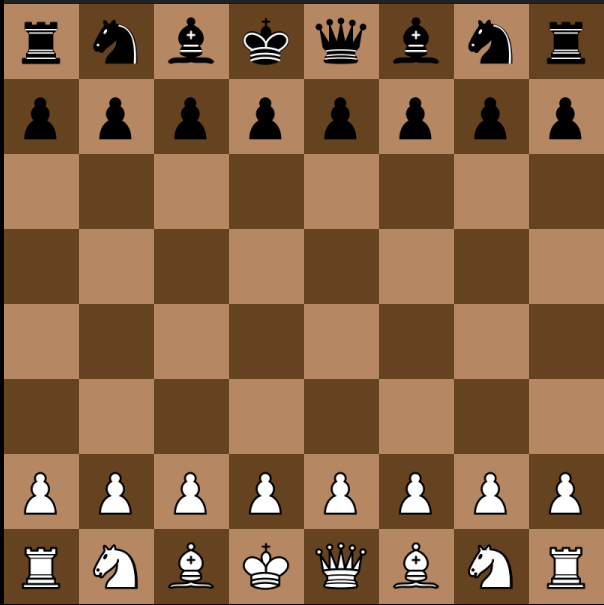
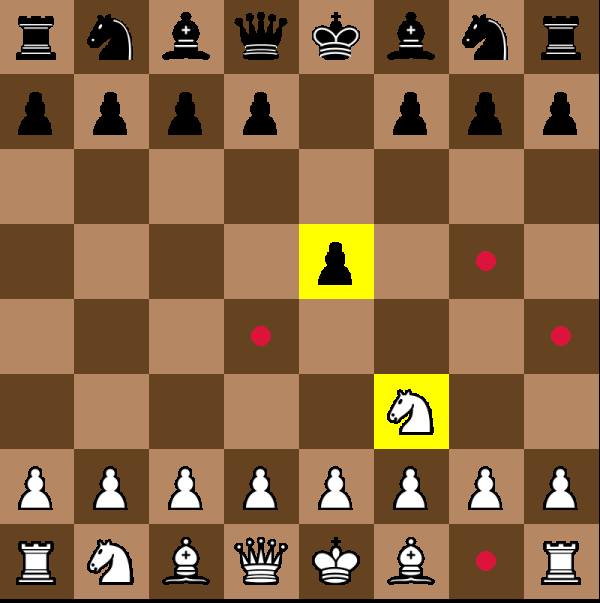
gui update

Changed region(s): [[0.0, 0.0, 1.0, 1.0], [0.78, 0.4179, 0.84, 0.4478]]

diff --git a/gui.py b/gui.py
@@ -1,106 +1,179 @@
-
+#! /usr/bin/env python3
 from chess import Chess, Color
 import pygame
+from enum import Enum
 from pygame.locals import MOUSEBUTTONUP
 import sys
 
-pygame.init()
+class AllPieces(Enum):
+    empty = 0
+    bP = 1 
+    bR = 2 
+    bN = 3 
+    bB = 4 
+    bQ = 5 
+    bK = 6 
+    wP = 7 
+    wR = 8 
+    wN = 9 
+    wB = 10 
+    wQ = 11 
+    wK = 12
 
-WIDTH, HEIGHT = 600, 600
-SQ_SIZE = WIDTH // 8
-LIGHT_BROWN = (181, 136, 99)
-DARK_BROWN = (101, 67, 33)
+class ChessGui:
 
-screen = pygame.display.set_mode((WIDTH, HEIGHT))
-pygame.display.set_caption("Chess")
+    pygame.init()
 
-chess_game = Chess()
-chess_game.board_init()
-chess_game.bit_board_init()
+    WIDTH, HEIGHT = 600, 600
+    SQ_SIZE = WIDTH // 8
+    LIGHT_BROWN = (181, 136, 99)
+    DARK_BROWN = (101, 67, 33)
+    HIGHLIGHT_COLOR = (255, 255, 0)
 
-board = [
-    ['bR', 'bN', 'bB', 'bK', 'bQ', 'bB', 'bN', 'bR'],
-    ['bP', 'bP', 'bP', 'bP', 'bP', 'bP', 'bP', 'bP'],
-    ['--', '--', '--', '--', '--', '--', '--', '--'],
-    ['--', '--', '--', '--', '--', '--', '--', '--'],
-    ['--', '--', '--', '--', '--', '--', '--', '--'],
-    ['--', '--', '--', '--', '--', '--', '--', '--'],
-    ['wP', 'wP', 'wP', 'wP', 'wP', 'wP', 'wP', 'wP'],
-    ['wR', 'wN', 'wB', 'wK', 'wQ', 'wB', 'wN', 'wR']
-]
+    screen = pygame.display.set_mode((WIDTH, HEIGHT))
+    pygame.display.set_caption("Chess")
 
-def draw_board():
-    for row in range(8):
-        for col in range(8):
-            color = LIGHT_BROWN if (row + col) % 2 == 0 else DARK_BROWN
-            pygame.draw.rect(screen, color, pygame.Rect(col * SQ_SIZE, row * SQ_SIZE, SQ_SIZE, SQ_SIZE))
+    chess_game = Chess()
+    chess_game.board_init()
+    chess_game.bit_board_init()
 
-def update_board(x_src, y_src, x_dst, y_dst, piece, color):
-    moves = chess_game.gen_moves(color)
-    for move in moves:
-        if move.piece == 0:
-            break
-        if move.src == 63 - (x_src * 8 + y_src) and move.dst == 63 - (x_dst * 8 + y_dst):
-            board[x_src][y_src], board[x_dst][y_dst] = '--', piece
-            chess_game.do_move(move)
-            return True
-    return False
+    board = [[AllPieces.empty.value for _ in range(8)] for _ in range(8)]
 
-def load_pieces():
-    return {piece: pygame.image.load(f'img/{piece}.png') for piece in ['bP', 'bR', 'bN', 'bB', 'bQ', 'bK', 'wP', 'wR', 'wN', 'wB', 'wQ', 'wK']}
+    pieces = {}
+    sounds = {}
 
-def draw_pieces(board, pieces):
-    for row in range(8):
-        for col in range(8):
-            piece = board[row][col]
-            if piece != '--':
-                p_img = pieces[piece].convert_alpha()
-                p_img_rect = p_img.get_rect()
-                p_img_rect.centerx, p_img_rect.centery = col * SQ_SIZE + SQ_SIZE // 2, row * SQ_SIZE + SQ_SIZE // 2
-                screen.blit(p_img, p_img_rect)
+    @staticmethod
+    def preload_assets():
+        ChessGui.pieces = {num: pygame.image.load(f'img/{piece}.png') for num, piece in enumerate(
+            ['bP', 'bR', 'bN', 'bB', 'bQ', 'bK', 'wP', 'wR', 'wN', 'wB', 'wQ', 'wK'], start=1)}
+        ChessGui.sounds['move'] = pygame.mixer.Sound('sound/assets_sounds_move.wav')
+        ChessGui.sounds['capture'] = pygame.mixer.Sound('sound/assets_sounds_capture.wav')
 
-def switch_player(color):
-    return Color.BLACK.value if color == Color.WHITE.value else Color.WHITE.value
+    @staticmethod
+    def draw_board():
+        for row in range(8):
+            for col in range(8):
+                color = ChessGui.LIGHT_BROWN if (row + col) % 2 == 0 else ChessGui.DARK_BROWN
+                pygame.draw.rect(ChessGui.screen, color, pygame.Rect(col * ChessGui.SQ_SIZE, row * ChessGui.SQ_SIZE, ChessGui.SQ_SIZE, ChessGui.SQ_SIZE))
 
-def play_sound(is_capture):
-    sound_file = 'sound/assets_sounds_capture.wav' if is_capture else 'sound/assets_sounds_move.wav'
-    sound = pygame.mixer.Sound(sound_file)
-    pygame.mixer.Sound.play(sound)
+    @staticmethod
+    def update_board(x_src, y_src, x_dst, y_dst, piece, color):
+        moves = ChessGui.chess_game.gen_moves(color)
+        for move in moves:
+            if move.piece == 0:
+                break
+            if move.src == 63 - (x_src * 8 + y_src) and move.dst == 63 - (x_dst * 8 + y_dst):
+                ChessGui.board[x_src][y_src], ChessGui.board[x_dst][y_dst] = AllPieces.empty.value, piece
+                ChessGui.chess_game.do_move(move)
+                return True
+        return False
 
-def main():
-    pieces = load_pieces()
-    running = True
-    player = Color.WHITE.value
-    src = False
-    x_src, y_src = None, None
+    @staticmethod
+    def draw_pieces(board):
+        for row in range(8):
+            for col in range(8):
+                piece = board[row][col]
+                if piece != AllPieces.empty.value:
+                    p_img = ChessGui.pieces[piece].convert_alpha()
+                    p_img_rect = p_img.get_rect()
+                    p_img_rect.centerx, p_img_rect.centery = col * ChessGui.SQ_SIZE + ChessGui.SQ_SIZE // 2, row * ChessGui.SQ_SIZE + ChessGui.SQ_SIZE // 2
+                    ChessGui.screen.blit(p_img, p_img_rect)
 
-    while running:
-        for event in pygame.event.get():
-            if event.type == pygame.QUIT:
-                running = False
-            if event.type == MOUSEBUTTONUP:
-                y, x = pygame.mouse.get_pos()
-                x, y = x // SQ_SIZE, y // SQ_SIZE
-                
-                if not src:
-                    if board[x][y] != '--':  
-                        x_src, y_src = x, y
-                        src = True
-                else:
-                    x_dst, y_dst = x, y
-                    is_capture = board[x_dst][y_dst] != '--'
-                    if update_board(x_src, y_src, x_dst, y_dst, board[x_src][y_src], player):
-                        play_sound(is_capture)
-                        player = switch_player(player)
-                        chess_game.print_board()
-                    src = False
+    @staticmethod
+    def switch_player(color):
+        return Color.BLACK.value if color == Color.WHITE.value else Color.WHITE.value
 
-        draw_board()
-        draw_pieces(board, pieces)
-        pygame.display.flip()
+    @staticmethod
+    def play_sound(is_capture):
+        sound = ChessGui.sounds['capture'] if is_capture else ChessGui.sounds['move']
+        pygame.mixer.Sound.play(sound)
 
-    pygame.quit()
-    sys.exit()
+    @staticmethod
+    def make_board():
+        for i in range(8):
+            for j in range(8):
+                pos = i * 8 + j
+                if ChessGui.chess_game.board.WhitePawns & (1 << pos):
+                    ChessGui.board[i][j] = AllPieces.wP.value
+                elif ChessGui.chess_game.board.BlackPawns & (1 << pos):
+                    ChessGui.board[i][j] = AllPieces.bP.value
+                elif ChessGui.chess_game.board.WhiteRooks & (1 << pos):
+                    ChessGui.board[i][j] = AllPieces.wR.value
+                elif ChessGui.chess_game.board.BlackRooks & (1 << pos):
+                    ChessGui.board[i][j] = AllPieces.bR.value
+                elif ChessGui.chess_game.board.WhiteKnights & (1 << pos):
+                    ChessGui.board[i][j] = AllPieces.wN.value
+                elif ChessGui.chess_game.board.BlackKnights & (1 << pos):
+                    ChessGui.board[i][j] = AllPieces.bN.value
+                elif ChessGui.chess_game.board.WhiteBishops & (1 << pos):
+                    ChessGui.board[i][j] = AllPieces.wB.value
+                elif ChessGui.chess_game.board.BlackBishops & (1 << pos):
+                    ChessGui.board[i][j] = AllPieces.bB.value
+                elif ChessGui.chess_game.board.WhiteQueens & (1 << pos):
+                    ChessGui.board[i][j] = AllPieces.wQ.value
+                elif ChessGui.chess_game.board.BlackQueens & (1 << pos):
+                    ChessGui.board[i][j] = AllPieces.bQ.value
+                elif ChessGui.chess_game.board.WhiteKing & (1 << pos):
+                    ChessGui.board[i][j] = AllPieces.wK.value
+                elif ChessGui.chess_game.board.BlackKing & (1 << pos):
+                    ChessGui.board[i][j] = AllPieces.bK.value
+        ChessGui.board[:] = ChessGui.board[::-1]
+
+    @staticmethod
+    def draw_moves(x_src, y_src, color):
+        moves = ChessGui.chess_game.gen_moves(color)
+        valid_moves = [moves[i].dst for i in range(256) if moves[i].src == 63 - (x_src * 8 + y_src)]
+        for move in valid_moves:
+            row, col = divmod(63 - move, 8)
+            if row in range(64) and col in range(64): 
+                if ChessGui.board[row][col] == AllPieces.empty.value:
+                    pygame.draw.circle(ChessGui.screen, (220,20,60), (col * ChessGui.SQ_SIZE + ChessGui.SQ_SIZE // 2, row * ChessGui.SQ_SIZE + ChessGui.SQ_SIZE // 2), 10)
+                else :
+                    pygame.draw.rect(ChessGui.screen,ChessGui.HIGHLIGHT_COLOR, pygame.Rect(col * ChessGui.SQ_SIZE, row * ChessGui.SQ_SIZE, ChessGui.SQ_SIZE, ChessGui.SQ_SIZE))
+
+        pygame.draw.rect(ChessGui.screen,ChessGui.HIGHLIGHT_COLOR, pygame.Rect(y_src * ChessGui.SQ_SIZE, x_src * ChessGui.SQ_SIZE, ChessGui.SQ_SIZE, ChessGui.SQ_SIZE))
+
+
+    @staticmethod
+    def main():
+        ChessGui.preload_assets()
+        ChessGui.make_board()
+        running = True
+        player = Color.WHITE.value
+        src_selected = False
+        x_src, y_src = None, None
+        draw = False
+
+        while running:
+            if not draw:
+                ChessGui.draw_board()
+            for event in pygame.event.get():
+                if event.type == pygame.QUIT:
+                    running = False
+                if event.type == pygame.MOUSEBUTTONUP:
+                    y, x = pygame.mouse.get_pos()
+                    x, y = x // ChessGui.SQ_SIZE, y // ChessGui.SQ_SIZE
+                    if not src_selected:
+                        if ChessGui.board[x][y] != AllPieces.empty.value:
+                            x_src, y_src = x, y
+                            src_selected = True
+                            draw = True
+                            ChessGui.draw_moves(x_src, y_src, player)
+                    else:
+                        x_dst, y_dst = x, y
+                        is_capture = ChessGui.board[x_dst][y_dst] != AllPieces.empty.value
+                        if ChessGui.update_board(x_src, y_src, x_dst, y_dst, ChessGui.board[x_src][y_src], player):
+                            ChessGui.play_sound(is_capture)
+                            player = ChessGui.switch_player(player)
+                            ChessGui.chess_game.print_board()
+                        src_selected = False
+                        draw = False
+            ChessGui.draw_pieces(ChessGui.board)
+
+            pygame.display.flip()
+
+        pygame.quit()
+        sys.exit()
 
 if __name__ == "__main__":
-    main()
+    ChessGui.main()
